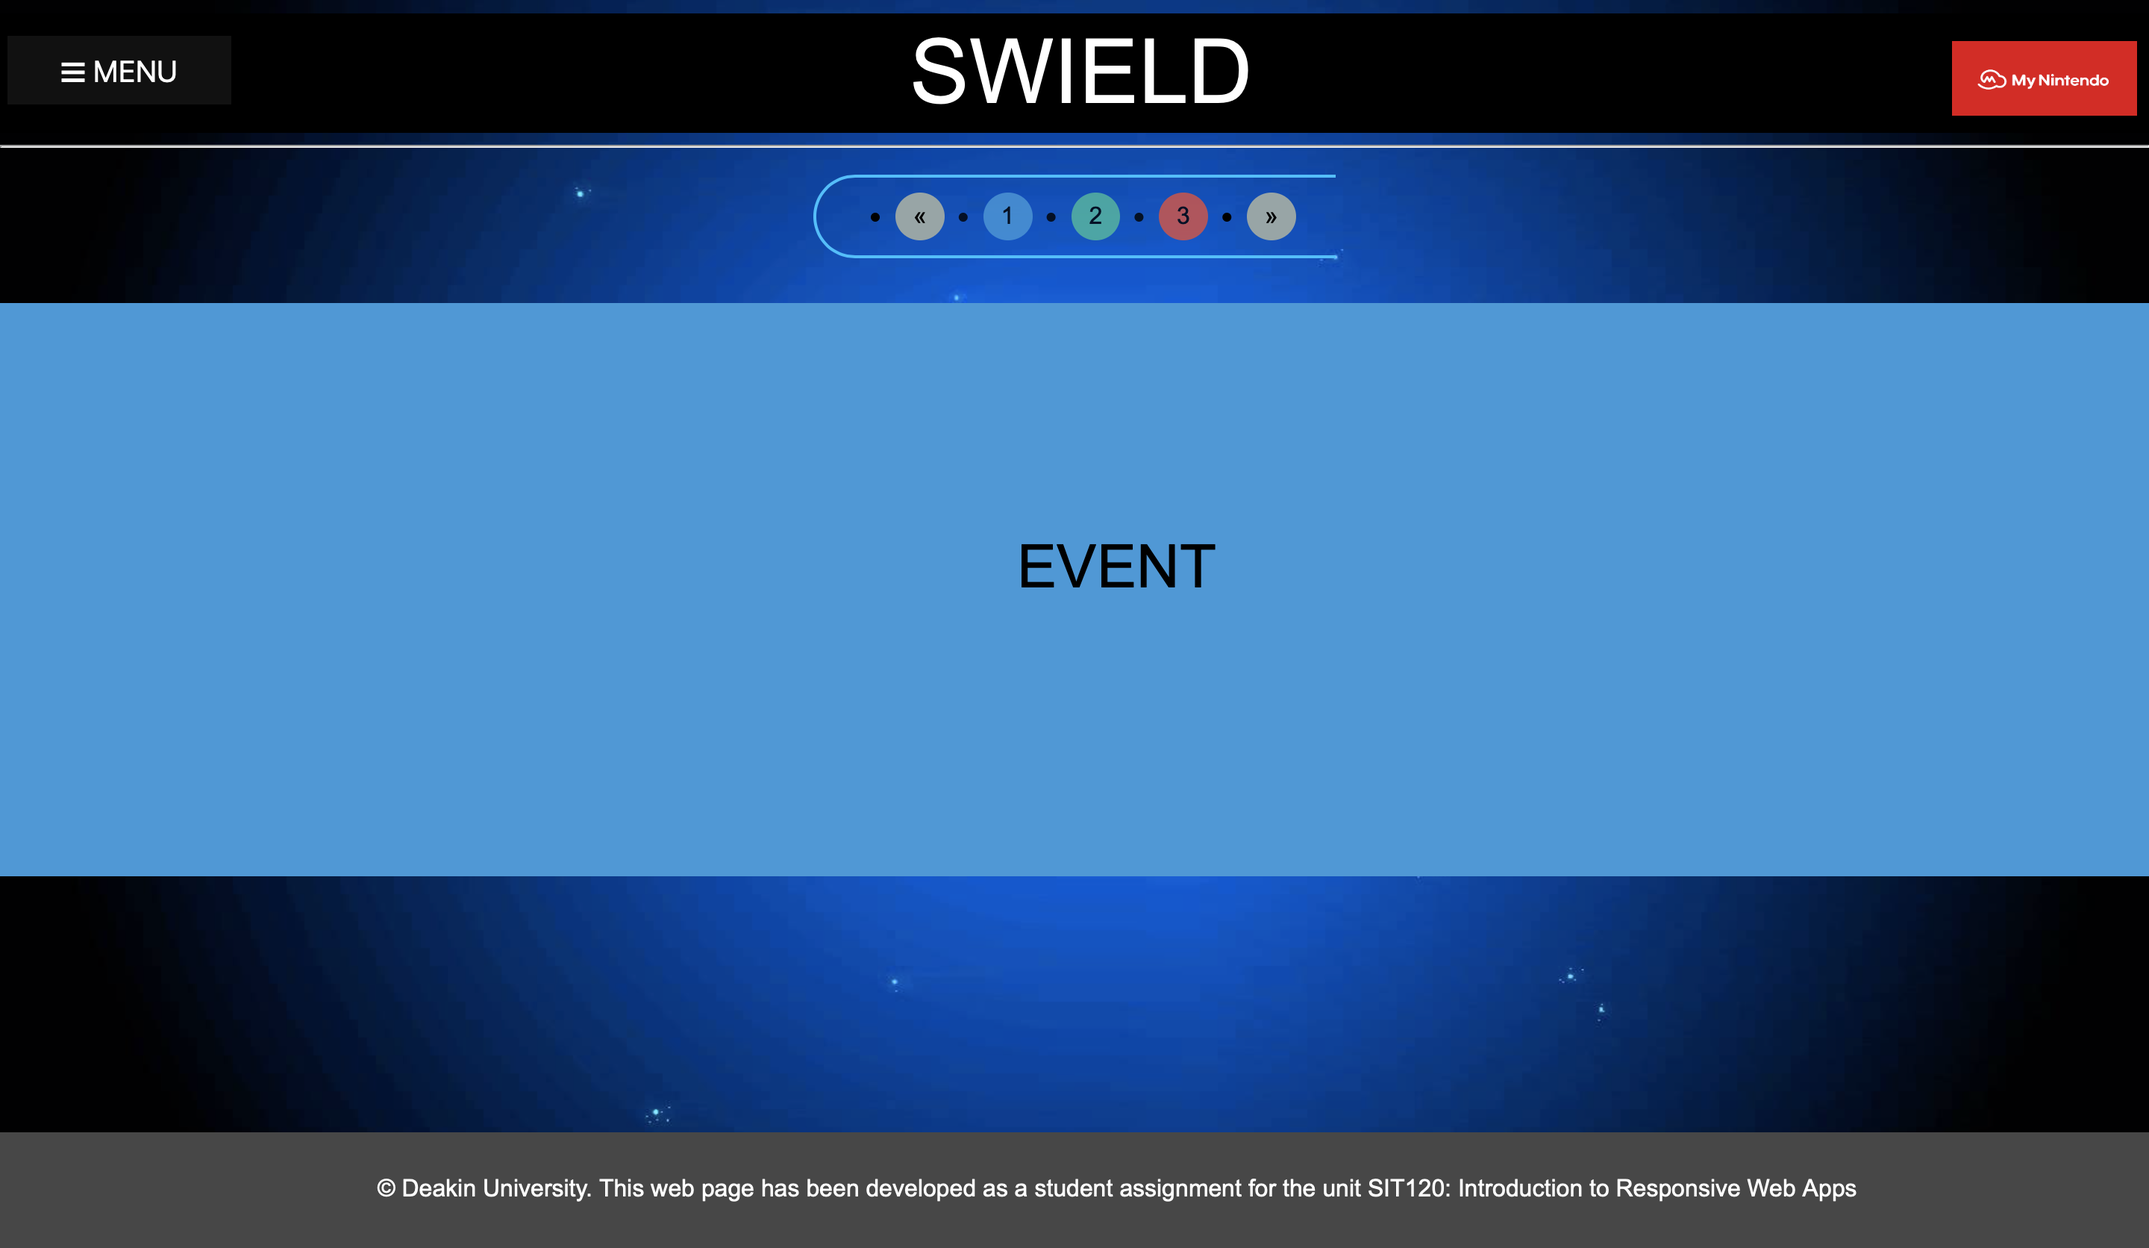
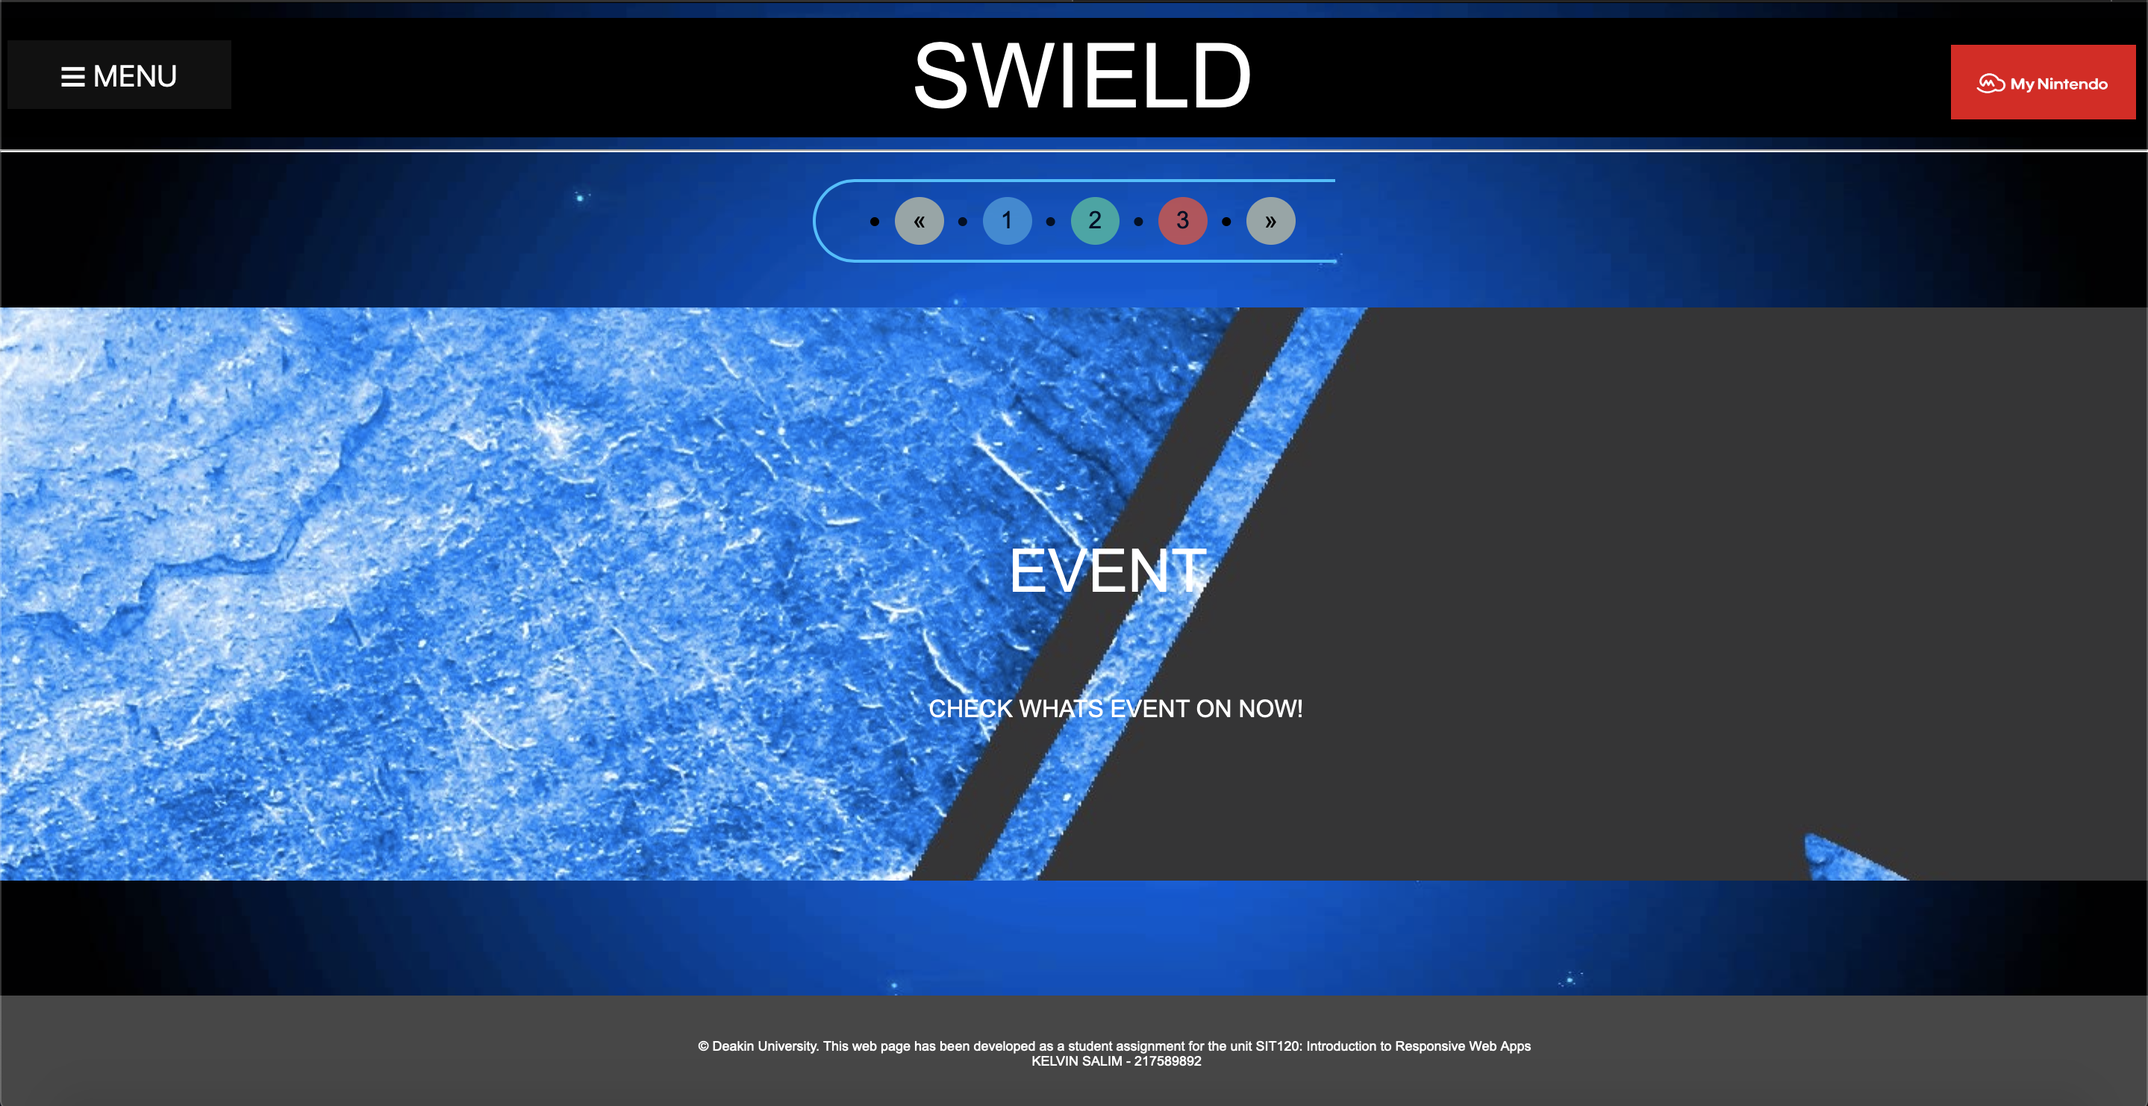
Week 10
Updating report

diff --git a/SIT120-Ass2Report-217589892/report.html b/SIT120-Ass2Report-217589892/report.html
@@ -23,7 +23,40 @@
 
 
     <div class="a">
+        <h3>PROJECT REQUIREMENTS:</h3>
+        <p>Purpose of this web application:</p>
+        <ul>
+            <li>To be a companion app with the Pokemon Sword and Pokemon Shield game.</li>
+            <li>This web application is targeted for the player of either or both of those game.</li>
+            <li>It can also be accessed by everyone, even though they are not a player of the game.</li>
+            <li>User can see news of the event or update of the game.</li>
+            <li>User can see the leaderboard of the global player.</li>
+        </ul>
+        <p>This Project requires this component:</p>
+        <ul>
+            <li><a href="https://vuejs.org/v2/guide/forms.html#ad">Form Input Binding</a></li>
+            <li><a href="https://vuejs.org/v2/cookbook/form-validation.html#ad">Form Validation</a></li>
+            <li><a href="https://vuejs.org/v2/guide/transitions.html#ad">Transition</a></li>
+            <li><a href="https://vuejs.org/v2/guide/class-and-style.html#Object-Syntax">Binding Inline Styles With Object Syntax</a></li>
+        </ul>
+        <hr>
+        <h3>ISSUE OR CHALLENGE FACED:</h3>
+        <ul>
+            <li>Cannot Implement Vue.JS into scrollable feature
+                <p>Since week 8, I have tried many tutorial and resource to make a scrollable table by using vuejs, but none of them work. I realised if I keep doing this, my project will not complete. Therefore, I change my plan to implement the feature
+                    using a simple HTML and CSS features instead using Vue.JS</p>
+            </li>
+            <li>Cannot put a background image
+                <p>Since the first week, I started my project. I can't use an image to be my web page background. I have tried many ways and the background still a blank color. But in the week 9, I successfully implemented the background. I realised what's
+                    wrong with my code. As in the CSS, i wrote the URL for the image is like this /image/IMAGE-NAME and it should be like this ../image/IMAGE-NAME </p>
+            </li>
+            <li>Content Slider CSS Adjustment
+                <p>On the first phase of my project development, my content slider looked like a mess, as sometimes the text is disappear, the background is not showing up and many other issues. But now, after I change some variable in the CSS style of the
+                    content slider, the content slider looks tidier and function as it is expected now.</p>
+            </li>
+        </ul>
         <!--OVERALL DESCRIPTION-->
+        <hr>
         <h3> OVERALL DESCRIPTION: </h3>
         <ol>
             <li class="list-head">
@@ -33,9 +66,9 @@
                 will become not transparent anymore and show a clearer background color. And also, in every page there will be a side navigation bar, that will show a menu when the user clicks on it and a login button that will redirect user to the login
                 page. Below some screenshots of how the web page will look like:</p>
             <p>Screenshot of Slider in Normal State. </p>
-            <img src=".\image\SS-Home-UnHover.png" id="screenshot">
+            <img src=".\image\SS-Home-UnHover.png" id="screenshot" class="center">
             <p>Screenshot of Slider where the user hover the mouse to it. </p>
-            <img src=".\image\SS-Home-Hover.png" id="screenshot">
+            <img src=".\image\SS-Home-Hover.png" id="screenshot" class="center">
 
             <br><br><br>
             <li class="list-head">
@@ -44,9 +77,9 @@
             <p>In this event and update page, there will be 3 boxes. These 3 boxes will show a text when the user hovers the mouse to each of the box in the webpage. When it gets hovered, there will be a background that shows up and there will be a corresponding
                 text to each boxes that exists in the web page. Below is the screenshot on how it is working: </p>
             <p>Screenshot of Event Page.</p>
-            <img src=".\image\SS-Event.png" id="screenshot">
+            <img src=".\image\SS-Event.png" id="screenshot" class="center">
             <p>Screenshot of Update Page. </p>
-            <img src=".\image\SS-Update.png" id="screenshot">
+            <img src=".\image\SS-Update.png" id="screenshot" class="center">
 
             <br><br><br>
             <li class="list-head">
@@ -55,7 +88,7 @@
             <p>In this Leaderboard page, there is a table that contain 30 rows of static data, that can be scrollable and when the user select or hover their mouse to a row in that table, it will show up in blue background, like shown in the screenshot below.
             </p>
             <p>Screenshot of Leaderboard Page.</p>
-            <img src=".\image\SS-Leaderboard.png" id="screenshot">
+            <img src=".\image\SS-Leaderboard.png" id="screenshot" class="center">
 
             <br><br><br>
             <li class="list-head">
@@ -65,11 +98,11 @@
                 the criteria of form input is fulfilled, the form will be submitted to the backend, of course if only this web apps will be connected to the backend in the future development.
             </p>
             <p>Screenshot of Login Form Page.</p>
-            <img src=".\image\SS-LoginForm.png" id="screenshot">
+            <img src=".\image\SS-LoginForm.png" id="screenshot" class="center">
             <p>Screenshot of Form Validation.</p>
-            <img src=".\image\SS-LoginForm-Validate.png" id="screenshot">
+            <img src=".\image\SS-LoginForm-Validate.png" id="screenshot" class="center">
             <p>Screenshot of Form Submitted</p>
-            <img src=".\image\SS-LoginForm-Submitted.png" id="screenshot">
+            <img src=".\image\SS-LoginForm-Submitted.png" id="screenshot" class="center">
 
             <br><br><br>
             <li class="list-head">
@@ -79,7 +112,7 @@
                 it, the text will be highlighted.
             </p>
             <p>Screenshot of Leaderboard Page.</p>
-            <img src=".\image\SS-SideNav.png" id="screenshot">
+            <img src=".\image\SS-SideNav.png" id="screenshot" class="center">
         </ol>
         <hr>
         <!--CODING CONCEPTS-->
@@ -88,16 +121,17 @@
             <li class="list-head">
                 Home Page
             </li>
-            <p>For the Slider in the Home Page. I am using a simple transition component from Vue.JS to control my slider. In the screenshot of the HTML Page below, we can see the code on how to implement our slider code into the HTML with the help of vue
-                transition component. <br>In the CSS, we can see a little part of the screenshot on where we are using the transition component. In there, we can see that it will control on how the slider will move to another slide. <br>In the JavaScript
-                page, we can see that the Vue is controlling on how the slide will be switch to another slide, when the user clicks either the next or previous button. We can see that the data that we pass here is the amount of active slide. If the active
-                slide has already reached 3, the slider will not move to another slide anymore when the user clicks the next button. It also works vice versa.</p>
+            <p>For the Slider in the Home Page. I am using a simple <a href="https://vuejs.org/v2/guide/transitions.html#ad">transition</a> component and <a href="https://vuejs.org/v2/guide/class-and-style.html#Object-Syntax">binding inline styles with object syntax</a>from
+                Vue.JS to control my slider. In the screenshot of the HTML Page below, we can see the code on how to implement our slider code into the HTML with the help of vue transition component. <br>In the CSS, we can see a little part of the screenshot
+                on where we are using the transition component. In there, we can see that it will control on how the slider will move to another slide. <br>In the JavaScript page, we can see that the Vue is controlling on how the slide will be switch
+                to another slide, when the user clicks either the next or previous button. We can see that the data that we pass here is the amount of active slide. If the active slide has already reached 3, the slider will not move to another slide anymore
+                when the user clicks the next button. It also works vice versa.</p>
             <p>Screenshot of Slider HTML Code </p>
-            <img src=".\image\SS-Code-HomeHTML.png" id="screenshot">
+            <img src=".\image\SS-Code-HomeHTML.png" id="screenshot" class="center">
             <p>Screenshot of Slider CSS Code </p>
-            <img src=".\image\SS-Code-HomeCSS.png" id="screenshot1">
+            <img src=".\image\SS-Code-HomeCSS.png" id="screenshot1" class="center">
             <p>Screenshot of Slider JavaScript Code </p>
-            <img src=".\image\SS-Code-HomeJS.png" id="screenshot">
+            <img src=".\image\SS-Code-HomeJS.png" id="screenshot" class="center">
 
             <br><br><br>
 
@@ -107,9 +141,9 @@
             <p>For the 3 boxes in the Event and Update Page. I only use HTML and CSS to control and styling it. In the HTML code, I am using table to make it looks tidier. <br>In the CSS page, We can see all the styling that been used to control the box
                 container, like how it will react when the user hovers the mouse into the box. And also, how it will react when the screen becomes smaller or larger.</p>
             <p>Screenshot of HTML Code</p>
-            <img src=".\image\SS-Code-EventHTML.png" id="screenshot">
+            <img src=".\image\SS-Code-EventHTML.png" id="screenshot" class="center">
             <p>Screenshot of CSS Code </p>
-            <img src=".\image\SS-Code-EventCSS.png" id="screenshot">
+            <img src=".\image\SS-Code-EventCSS.png" id="screenshot" class="center">
 
             <br><br><br>
 
@@ -120,21 +154,22 @@
                 been used to control the box container, like how it will have a change of background into blue and change of font color into black when the user hovers the mouse into the box. And also, how it will react when the screen becomes smaller
                 or larger.</p>
             <p>Screenshot of HTML Code</p>
-            <img src=".\image\SS-Code-LBHTML.png" id="screenshot">
+            <img src=".\image\SS-Code-LBHTML.png" id="screenshot" class="center">
             <p>Screenshot of CSS Code </p>
-            <img src=".\image\SS-Code-LBCSS.png" id="screenshot">
+            <img src=".\image\SS-Code-LBCSS.png" id="screenshot" class="center">
 
             <br><br><br>
 
             <li class="list-head">
                 Login Page
             </li>
-            <p>For the login form, we can see in the HTML code, that I am using Form Input Binding component of Vue.JS to create the login form in the login page. <br>In JavaScript code, I am using the form validation component from vuejs to validate the
-                form that will be submitted by the user. In this stage, I am only make it show an alert, if the user puts no value inside the text field of the form. And also once it has been validated, it will submit the form.</p>
+            <p>For the login form, we can see in the HTML code, that I am using <a href="https://vuejs.org/v2/guide/forms.html#ad">Form Input Binding</a> component of Vue.JS to create the login form in the login page. <br>In JavaScript code, I am using the
+                <a href="https://vuejs.org/v2/cookbook/form-validation.html#ad">form validation</a> component from vuejs to validate the form that will be submitted by the user. In this stage, I am only make it show an alert, if the user puts no value
+                inside the text field of the form. And also once it has been validated, it will submit the form.</p>
             <p>Screenshot of HTML Code</p>
-            <img src=".\image\SS-Code-LoginHTML.png" id="screenshot">
+            <img src=".\image\SS-Code-LoginHTML.png" id="screenshot" class="center">
             <p>Screenshot of JS Code </p>
-            <img src=".\image\SS-Code-LoginJS.png" id="screenshot">
+            <img src=".\image\SS-Code-LoginJS.png" id="screenshot" class="center">
 
             <br><br><br>
 
@@ -145,11 +180,11 @@
                 the user clicks the menu button and how the menu will look like in the smaller screen. <br>On how to control the button, I am using a simple javascript code to control it. In the JavaScript code, we can see that it controls when it opens
                 and when it closes. When it opens, the width of the menu will increase from 0 to 250px and when it closes, the width of the menu will come back to 0px. </p>
             <p>Screenshot of HTML Code</p>
-            <img src=".\image\SS-Code-SideNavHTML.png" id="screenshot">
+            <img src=".\image\SS-Code-SideNavHTML.png" id="screenshot" class="center">
             <p>Screenshot of JS Code </p>
-            <img src=".\image\SS-Code-SideNavJS.png" id="screenshot">
+            <img src=".\image\SS-Code-SideNavJS.png" id="screenshot" class="center">
             <p>Screenshot of CSS Code </p>
-            <img src=".\image\SS-Code-SideNavCSS.png" id="screenshot">
+            <img src=".\image\SS-Code-SideNavCSS.png" id="screenshot" class="center">
 
         </ol>
     </div>

diff --git a/home.html b/home.html
@@ -54,13 +54,21 @@
                 <div class="slider-boxes">
                     <ul class="slider" :style="styleObject">
                         <a href="event.html">
-                            <li class="blue slide">EVENT</li>
+                            <li class="blue slide">EVENT
+                                <br><br>
+                                <p class="sub-title">CHECK WHATS EVENT ON NOW!</p>
+                            </li>
                         </a>
                         <a href="update.html">
-                            <li class="green slide">UPDATE</li>
+                            <li class="green slide">UPDATE <br><br>
+                                <p class="sub-title">MORE UPDATE COMING SOON</p>
+                            </li>
                         </a>
                         <a href="leaderboard.html">
-                            <li class="red slide">LEADERBOARD</li>
+                            <li class="red slide">LEADERBOARD
+                                <br><br>
+                                <p class="sub-title">SEE WHO IS THE POKEMON MASTER!</p>
+                            </li>
                         </a>
                     </ul>
                 </div>
@@ -70,7 +78,7 @@
 
         <!--FOOTER-->
         <div class="footer">
-            &#169 Deakin University. This web page has been developed as a student assignment for the unit SIT120: Introduction to Responsive Web Apps
+            &#169 Deakin University. This web page has been developed as a student assignment for the unit SIT120: Introduction to Responsive Web Apps <br> KELVIN SALIM - 217589892
         </div>
     </div>
 

diff --git a/css/content-slider.css b/css/content-slider.css
@@ -41,7 +41,9 @@
     transform: translate(0%, -1%);
     opacity: 1;
     transition: .5s ease;
-    background: #1abc9c;
+    /*background: #1abc9c;*/
+    background-image: url(../image/background-8.png);
+    color: white;
 }
 
 .blue {
@@ -53,7 +55,9 @@
     transform: translate(0%, -1%);
     opacity: 1;
     transition: .5s ease;
-    background: #3498db;
+    /*background: #3498db;*/
+    background-image: url(../image/background-9.jpg);
+    color: white;
 }
 
 .grey {
@@ -69,11 +73,17 @@
     transform: translate(0%, -1%);
     opacity: 1;
     transition: .5s ease;
-    background: #e74c3c;
+    /*background: #e74c3c;*/
+    background-image: url(../image/background-6.jpg);
+    color: white;
 }
 
 .lightgrey {
     background: #95a5a6;
+}
+
+.sub-title {
+    font-size: 40%;
 }
 
 

diff --git a/css/home.css b/css/home.css
@@ -111,7 +111,7 @@
 
 /* Add media queries for responsiveness - when the screen is 500px wide or less, stack the links on top of each other */
 
-@media screen and (max-width: 500px) {
+@media screen and (max-width: 600px) {
     .header a {
         float: none;
         display: block;
@@ -130,7 +130,8 @@
     left: 0;
     bottom: 0;
     width: 100%;
-    height: 20px;
+    height: 2.5%;
+    font-size: 50%;
     background-color: rgb(71, 71, 71);
     color: white;
     text-align: center;

diff --git a/update.html b/update.html
@@ -77,7 +77,7 @@
         </table>
         <!--FOOTER-->
         <div class="footer">
-            &#169 Deakin University. This web page has been developed as a student assignment for the unit SIT120: Introduction to Responsive Web Apps
+            &#169 Deakin University. This web page has been developed as a student assignment for the unit SIT120: Introduction to Responsive Web Apps <br> KELVIN SALIM - 217589892
         </div>
     </div>
 

diff --git a/login.html b/login.html
@@ -74,7 +74,7 @@
         </div>
         <!--FOOTER-->
         <div class="footer">
-            &#169 Deakin University. This web page has been developed as a student assignment for the unit SIT120: Introduction to Responsive Web Apps
+            &#169 Deakin University. This web page has been developed as a student assignment for the unit SIT120: Introduction to Responsive Web Apps <br> KELVIN SALIM - 217589892
         </div>
     </div>
 

diff --git a/leaderboard.html b/leaderboard.html
@@ -237,7 +237,7 @@
 
         <!--FOOTER-->
         <div class="footer">
-            &#169 Deakin University. This web page has been developed as a student assignment for the unit SIT120: Introduction to Responsive Web Apps
+            &#169 Deakin University. This web page has been developed as a student assignment for the unit SIT120: Introduction to Responsive Web Apps <br> KELVIN SALIM - 217589892
         </div>
     </div>
 

diff --git a/event.html b/event.html
@@ -77,7 +77,7 @@
 
     <!--FOOTER-->
     <div class="footer">
-        &#169 Deakin University. This web page has been developed as a student assignment for the unit SIT120: Introduction to Responsive Web Apps
+        &#169 Deakin University. This web page has been developed as a student assignment for the unit SIT120: Introduction to Responsive Web Apps <br> KELVIN SALIM - 217589892
     </div>
     </div>
 

diff --git a/js/loader.js b/js/loader.js
@@ -1,7 +1,7 @@
 var myVar;
 // Set Timeout for 0.5 seconds after that show the page
 function myFunction() {
-    myVar = setTimeout(showPage, 500);
+    myVar = setTimeout(showPage, 200);
 }
 
 // Showing the loader first, then show the main page

diff --git a/SIT120-Ass2Report-217589892/report.css b/SIT120-Ass2Report-217589892/report.css
@@ -52,3 +52,10 @@ img#screenshot1 {
 .list-head {
     font-weight: bold;
 }
+
+.center {
+    display: block;
+    margin-left: auto;
+    margin-right: auto;
+    width: 50%;
+}

diff --git a/js/content-slider.js b/js/content-slider.js
@@ -1,3 +1,4 @@
+// Binding Inline Styles - Object Syntax
 new Vue({
     el: '#slider',
     data: {
